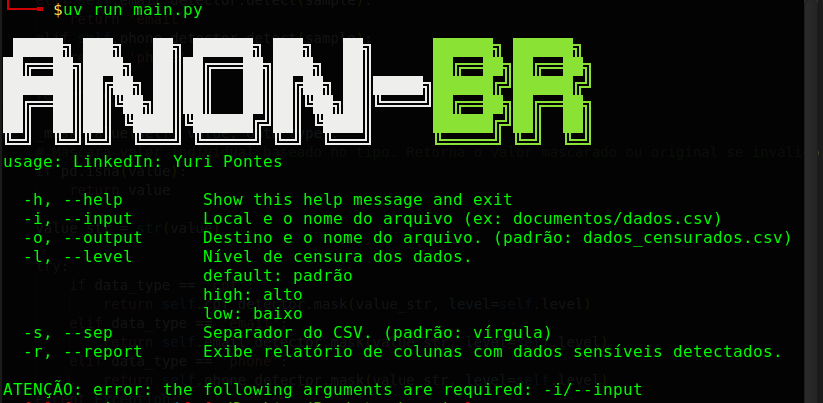
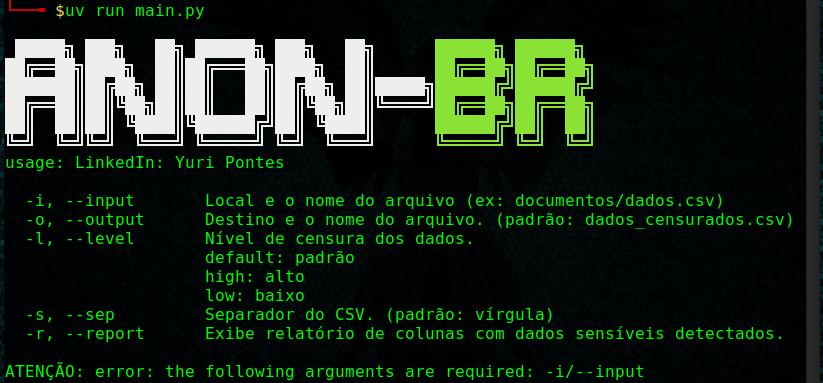
docs: atualizar informações

diff --git a/README.md b/README.md
@@ -20,6 +20,27 @@ O projeto foi desenvolvido para estimular programadores de Júniors a Sêniors n
 
 ***Todos os dados sensíveis expostos neste repositório são fictícios, gerados por IA como ilustração para exibição de testes.***
 
+## Atualizações
+
+**v1.0.0 -** Censura CPF, E-Mail e Telefone apenas em arquivos CSV.
+
+**v1.5.0 -** ***Nova funcionalidade:*** Censura de dados em **PDF** sem quebrar o formato do arquivo.
+
+[**CLIQUE AQUI - RESUMO DAS FUNCIONALIDADES E EXEMPLO DE MASCARAMENTO.**](#funcionalidades---resumo)
+
+## SUMÁRIO
+
+[**#1** - NÍVEIS DE MASCARAMENTO](#níveis-de-mascaramento)  
+[**#2** - ARQUITETURA DO PROJETO](#arquitetura-do-projeto)  
+[**#3** - COMO FUNCIONA A DETECÇÃO](#como-funciona-a-detecção)  
+[**#4** - COMO FUNCIONA O MASCARAMENTO](#como-funciona-o-mascaramento)  
+[**#5** - CASO DE USO](#caso-de-uso)  
+[**#6** - CONFIGURAÇÃO DO AMBIENTE](#configuração-do-ambiente)  
+[**#7** - EXECUÇÃO DA FERRAMENTA](#execução)  
+[**#8** - LISTA DE COMANDOS](#lista-de-comandos)  
+[**#9** - TECNOLOGIAS](#tecnologias)  
+[**#10** - AUTOR](#autor)  
+
 ## Níveis de Mascaramento
 
 | Dado| High | Default | Low | 
@@ -130,11 +151,48 @@ anonymizer = Anonymizer(level='default')
 
 ![Nível de mascaramento](images/nivel_mascaramento.png)  
 
+## Funcionalidades - RESUMO
+
+Censura dados sensíveis em arquivos CSV e PDF sem quebrar a estrutura do arquivo, com três níveis de formatação: **default, high, low**. Exemplos de dados alvos da ferramenta atualmente e extensões disponíveis, mascaradas em formato **DEFAULT**:
+
+<table style="margin-left: auto; margin-right: auto; text-align: center; border-collapse: collapse;">
+  <caption><strong>DADOS E EXTENSÕES DISPONÍVEIS</strong></caption>
+  <thead>
+    <tr>
+      <th style="border: 1px solid #ccc; padding: 10px;"></th>
+      <th style="border: 1px solid #ccc; padding: 10px;">CPF</th>
+      <th style="border: 1px solid #ccc; padding: 10px;">E-Mail</th>
+      <th style="border: 1px solid #ccc; padding: 10px;">Telefone</th>
+    </tr>
+  </thead>
+  <tbody>
+    <tr>
+      <td style="border: 1px solid #ccc; padding: 10px;"><strong>CSV</strong></td>
+      <td style="border: 1px solid #ccc; padding: 10px;">✔</td>
+      <td style="border: 1px solid #ccc; padding: 10px;">✔</td>
+      <td style="border: 1px solid #ccc; padding: 10px;">✔</td>
+    </tr>
+    <tr>
+      <td style="border: 1px solid #ccc; padding: 10px;"><strong>PDF</strong></td>
+      <td style="border: 1px solid #ccc; padding: 10px;">✔</td>
+      <td style="border: 1px solid #ccc; padding: 10px;">✔</td>
+      <td style="border: 1px solid #ccc; padding: 10px;">✔</td>
+    </tr>
+  </tbody>
+</table>
+
+### Exemplo de mascaramento padrão:
+| Expensão | CPF | E-Mail |Telefone |
+|----------|---------|--------|-|
+| **CSV** | XXX.096.XXX-XX | bxxxxxxxxx@empresa.com |(21) XXXXX-4321|
+| **PDF** | ███.096.███-██ | b█████████@empresa.com |(21) █████-4321|
+
+
 ## Caso de Uso
 
 Você é DBA ou quem quer que seja e recebe pedidos constantes de acesso ao banco para desenvolvimento ou teste. Não pode autorizar acesso direto (dados sensíveis em produção), mas a equipe precisa dos dados numa quantidade real para desenvolver ou testar alguma funcionalidade de algo projeto ou ferramenta.
 
-Fazer exports manuais e editar cada campo sensível em Excel consome horas e é propenso a erros. O Anonbr automatiza esse processo: você exporta a tabela para CSV, executa a ferramenta (CPF: de 123.456.789-09 para XXX.XXX.789-XX, Email: de bruno@email.com para b***@email.com) e compartilha o arquivo com segurança. A equipe trabalha com dados reais sem expor informações pessoais.
+Fazer exports manuais e editar cada campo sensível em Excel consome horas e é propenso a erros. O Anonbr automatiza esse processo: você exporta o arquivo para a [**extenção disponível**](#funcionalidades---resumo), executa a ferramenta (CPF: de 123.456.789-09 para XXX.XXX.789-XX, Email: de bruno@email.com para bxxx@email.com, **para PDFs usa tarjas pretas**) e compartilha o arquivo com segurança. A equipe trabalha com dados reais sem expor informações pessoais.
 
 ## Configuração do ambiente
 
@@ -164,8 +222,7 @@ A lista de comandos irá aparecer no terminal caso execute o arquivo sem nenhum 
 
 ![Terminal](images/cli.png)
 
-```
-  -h, --help        Show this help message and exit  
+``` 
   -i, --input       Local e o nome do arquivo (ex: documentos/dados.csv)  
   -o, --output      Destino e o nome do arquivo. (padrão: dados_censurados.csv)  
   -l, --level       Nível de censura dos dados.  
@@ -192,11 +249,13 @@ Se o arquivo original não seguir esse padrão, será necessário renomeá-lo.
 
 ## Tecnologias  
 
-- Python 3.8+
-- pandas (processamento de DataFrames)
-- re (expressões regulares, biblioteca padrão)
-- pytest (testes)
-- uv (gerenciamento de dependências)  
+- Python *3.8+*
+- pandas *>=1.3.0*
+- re
+- PyMuPDF *>=1.24.11*
+- PDFPlumber *>=0.11.5*
+- pytest
+- uv *(gerenciamento de dependências)*  
 
 ## Autor
 ***Yuri Pontes***  

diff --git a/CONTRIBUTING.md b/CONTRIBUTING.md
@@ -56,11 +56,13 @@ anonbr/
 └── detectors/
     ├── cpf.py  # Detecção e mascaramento de CPF
     ├── email.py  # Detecção e mascaramento de email
+    ├── pdf.py  # Detecção e mascaramento de PDF
     └── telefone.py  # Detecção e mascaramento de telefone
 
 tests/
 ├── test_cpf.py
 ├── test_email.py
+├── test_pdf.py 
 └── test_telefone.py
 
 main.py  # Script de execucao
@@ -71,7 +73,7 @@ O mascaramento tem três níveis: high (mascara tudo), default (equilíbrio) e l
 
 ## Sugestões para contribuição
 
-O projeto precisa de ajuda em diversas frentes. Algumas ideias: corrigir erros de escrita na documentação, adicionar edge cases nos testes existentes, traduzir o README para inglês, implementar novos detectores (CNPJ, RG, CEP, CNH), exportar relatório de auditoria mostrando quais colunas foram mascaradas e quantos registros processados, suporte a processamento em batch com múltiplos arquivos, etc.
+O projeto precisa de ajuda em diversas frentes. Algumas ideias: corrigir erros de escrita na documentação, implementar novos detectores (CNPJ, RG, CEP, CNH), suporte a processamento em batch com múltiplos arquivos, etc.
 
 > Não se limite a essa lista. Se identificar algo que pode melhorar, abra uma issue ou mande um PR.
 
